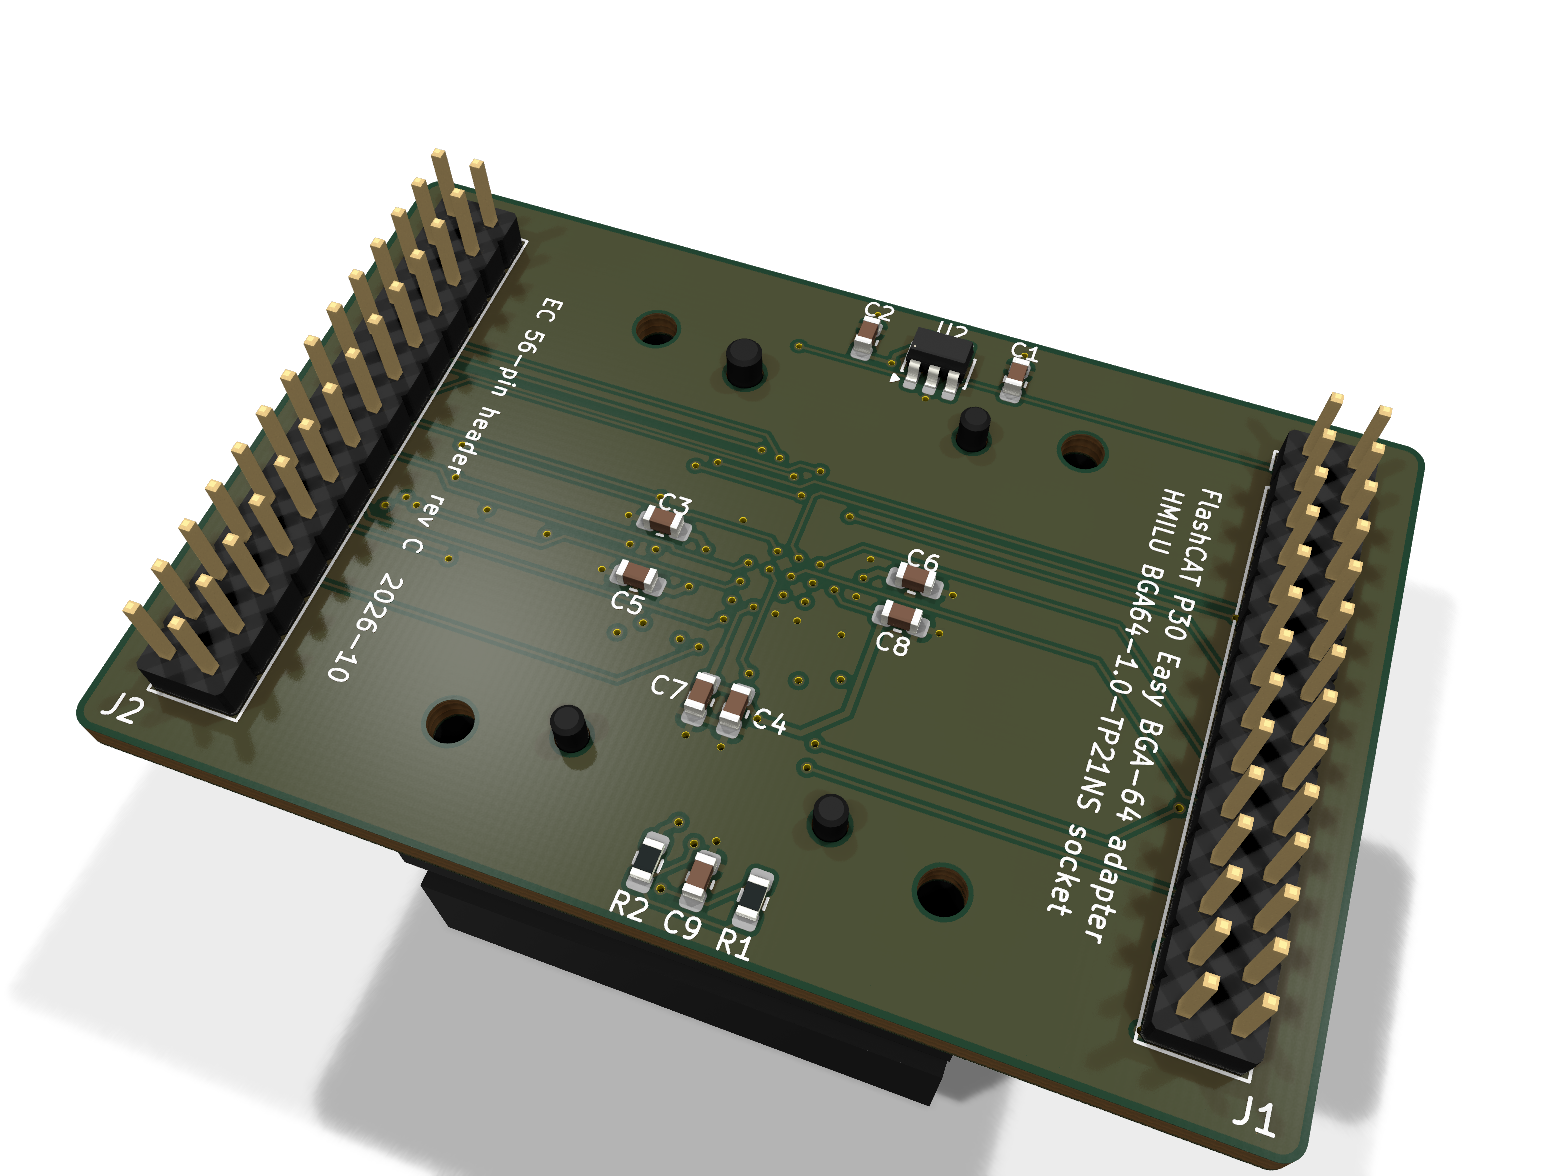
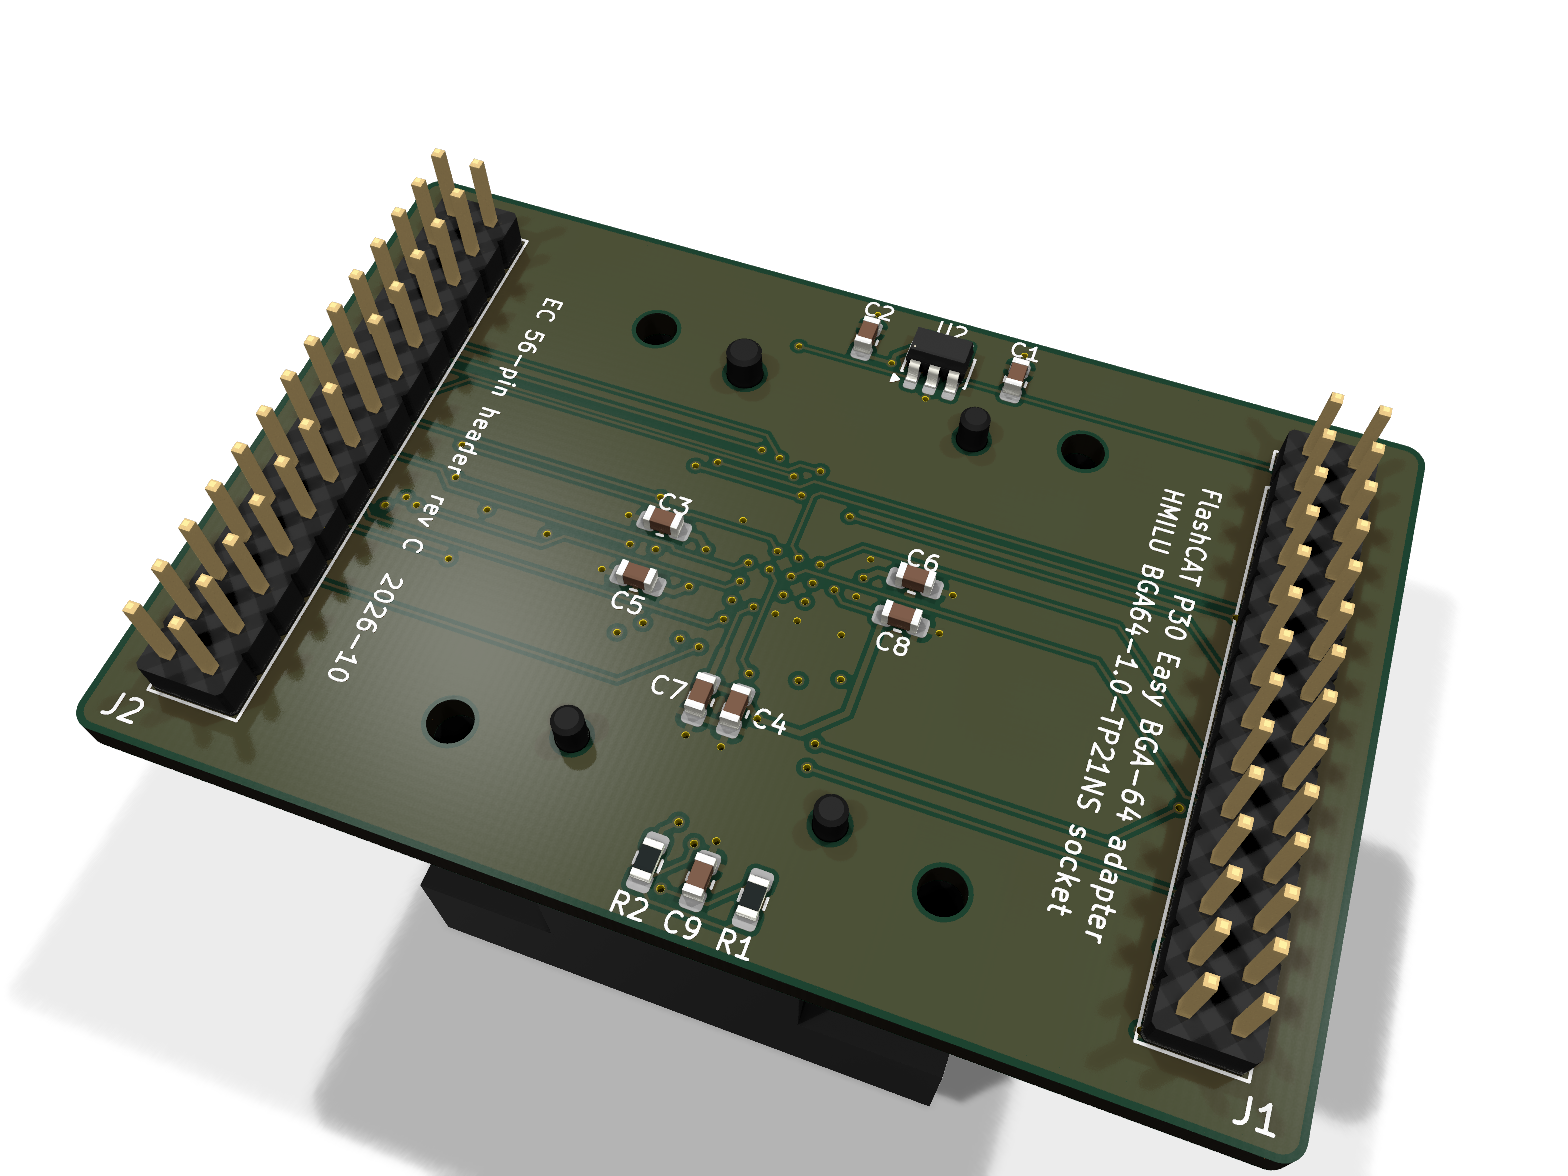
docs: re-render the board and describe the detailed socket model

diff --git a/hardware/README.md b/hardware/README.md
@@ -247,11 +247,16 @@ become the master copy and the generators should not be re-run.
 ## 3D model of the socket
 
 No vendor model is published for the BGA64-1.0-TP21NS, so
-`tools/make_socket_3d.py` builds a simplified STEP from the HMILU drawing:
-26 × 30 mm body, 10.8 mm base, 17.5 mm overall with the cover up, a 10 × 13 mm
-IC nest, cover on four springs, 64 contact blades down to the pads, the four
-locator pins (3.4 mm) and the fixing holes. Contact and pin positions come
-from `design.py`, so they match the footprint exactly. It is for
+`tools/make_socket_3d.py` builds a simplified STEP from the HMILU drawing's
+top, front-section and isometric views: a base with four corner towers
+(3.3 mm slab, towers to 7.5 mm) and the 10 × 13 mm IC holder between them; a
+26 × 30 mm cover (10.8–17.5 mm, cover up) with an 18 × 14 mm funnel window,
+countersunk corner holes and a skirt in the middle of each side that drops
+between the towers (with the guide slot and pin on the 30 mm faces); coil
+springs on the towers around the corner screw posts; 64 contact blades down
+to the pads and the four locator pins (3.4 mm). Hole, pin and contact
+positions come from `design.py`, so they match the footprint exactly;
+proportions the drawing does not dimension were measured from it. It is for
 fit/clearance checks and renders, not a manufacturer-accurate model.
 
 ## References
